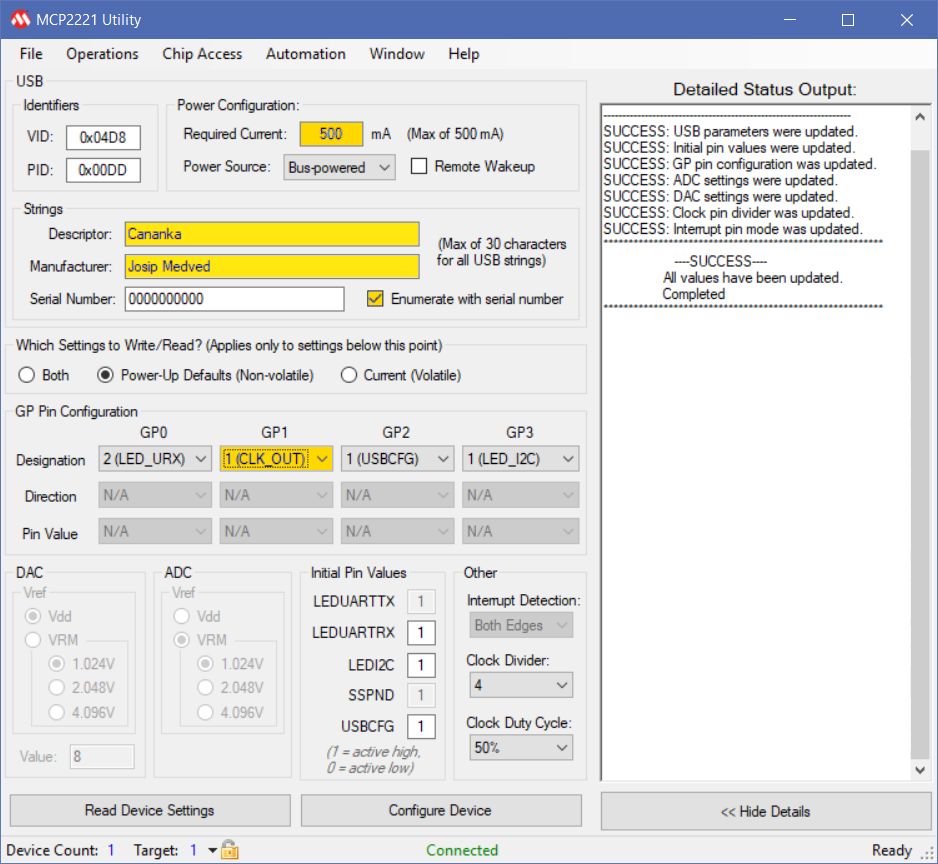
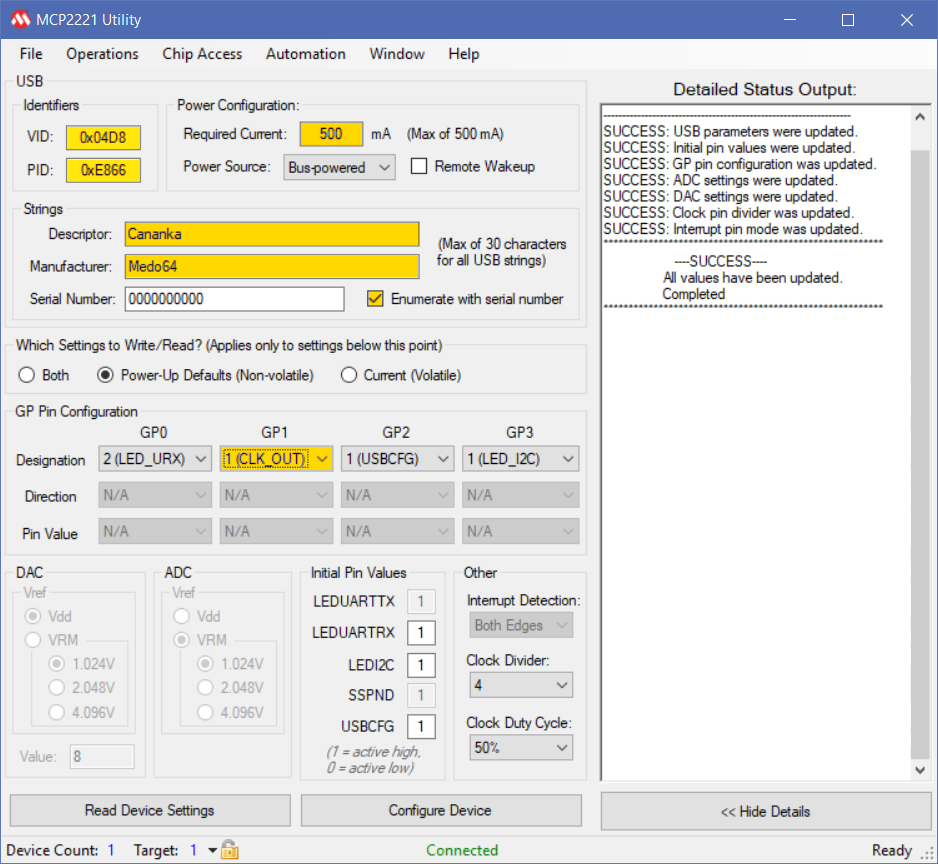
Updated serial port configuration

Changed region(s): [[0.0618, 0.125, 0.1546, 0.2188], [0.1237, 0.25, 0.2164, 0.3125]]

diff --git a/Hardware/Board/Mini/Cananka Mini [E].md b/Hardware/Board/Mini/Cananka Mini [E].md
@@ -44,10 +44,15 @@ changes:
 
 The following changes are suggested:
 
-    * Required Current: 100 mA (minimum)
-    * Descriptor: Cananka
-    * Manufacturer: Medo64
-    * Enumerate with serial number: Yes
+| Property                     | Value            |
+|------------------------------|------------------|
+| VID:                         | 0x04D8           |
+| PID:                         | 0xE866           |
+| Required Current:            | 100 mA (minimum) |
+| Descriptor:                  | Cananka          |
+| Manufacturer:                | Medo64           |
+| Enumerate with serial number | Yes              |
+| GP1                          | CLK_OUT          |
 
 All other settings should remain default.
 
